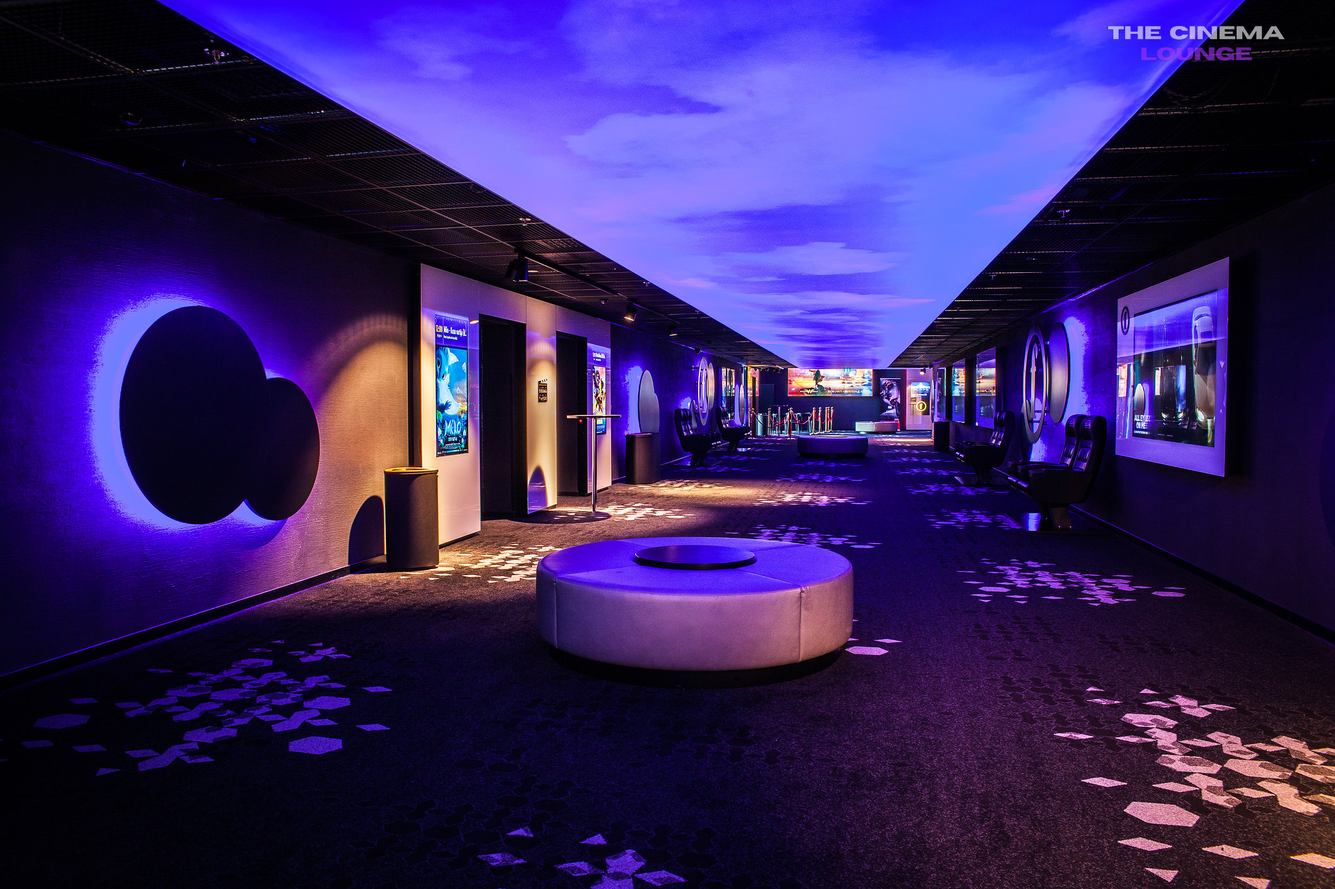
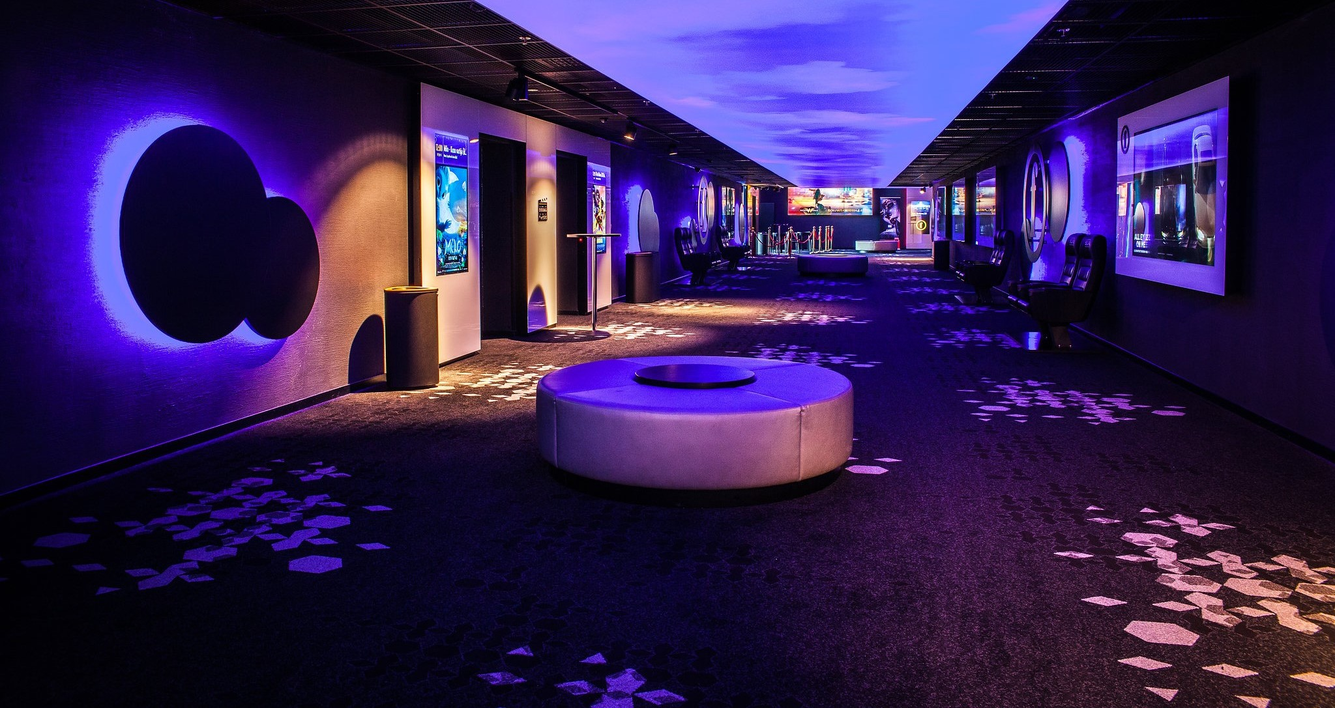
Cambio tamaño de img carrousel

diff --git a/style/style.css b/style/style.css
@@ -5,7 +5,7 @@
 @import url('https://fonts.googleapis.com/css2?family=Libre+Baskerville&display=swap');
 
 body {
-     background-color: #1d0c25;
+     background-color: #250f2f;
 }
 
 /* -----Navbar----- */
@@ -209,7 +209,7 @@ footer h5 {
 
 .carousel-item {
      width: 100%;
-     height: 48rem;
+     height: 40rem;
 }
 
 iframe {
